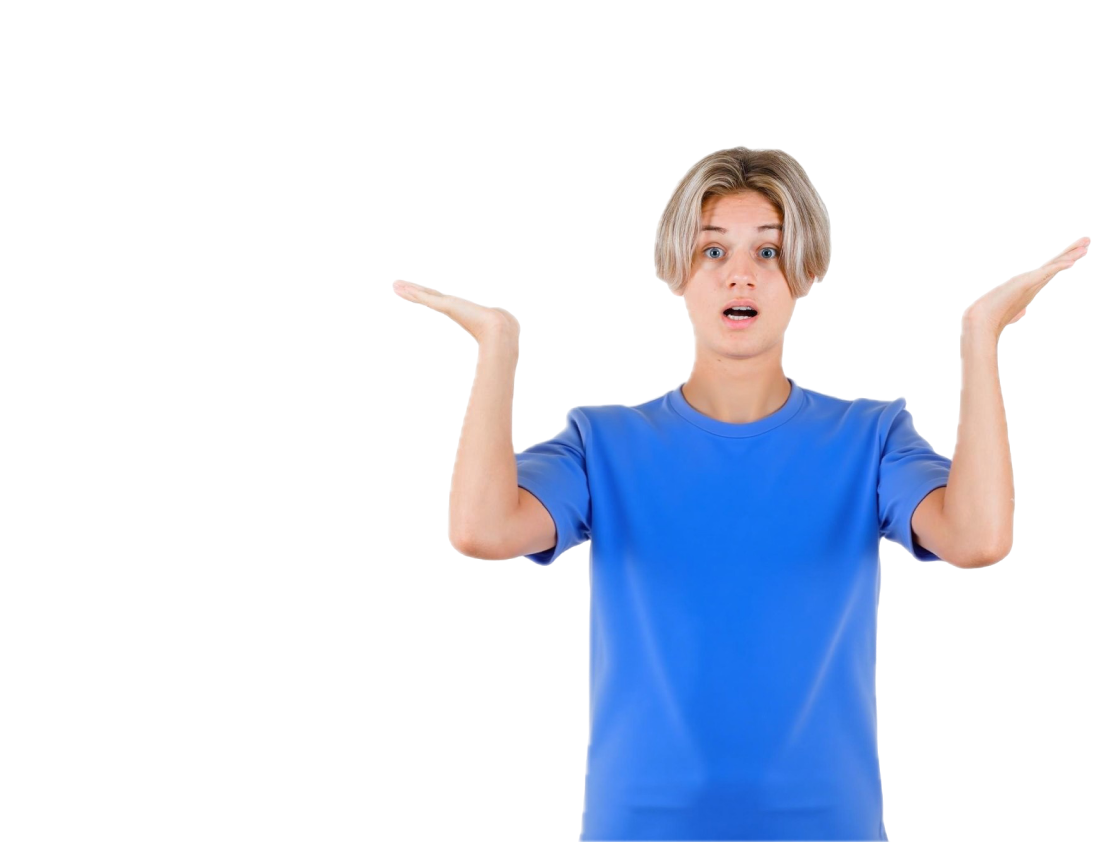
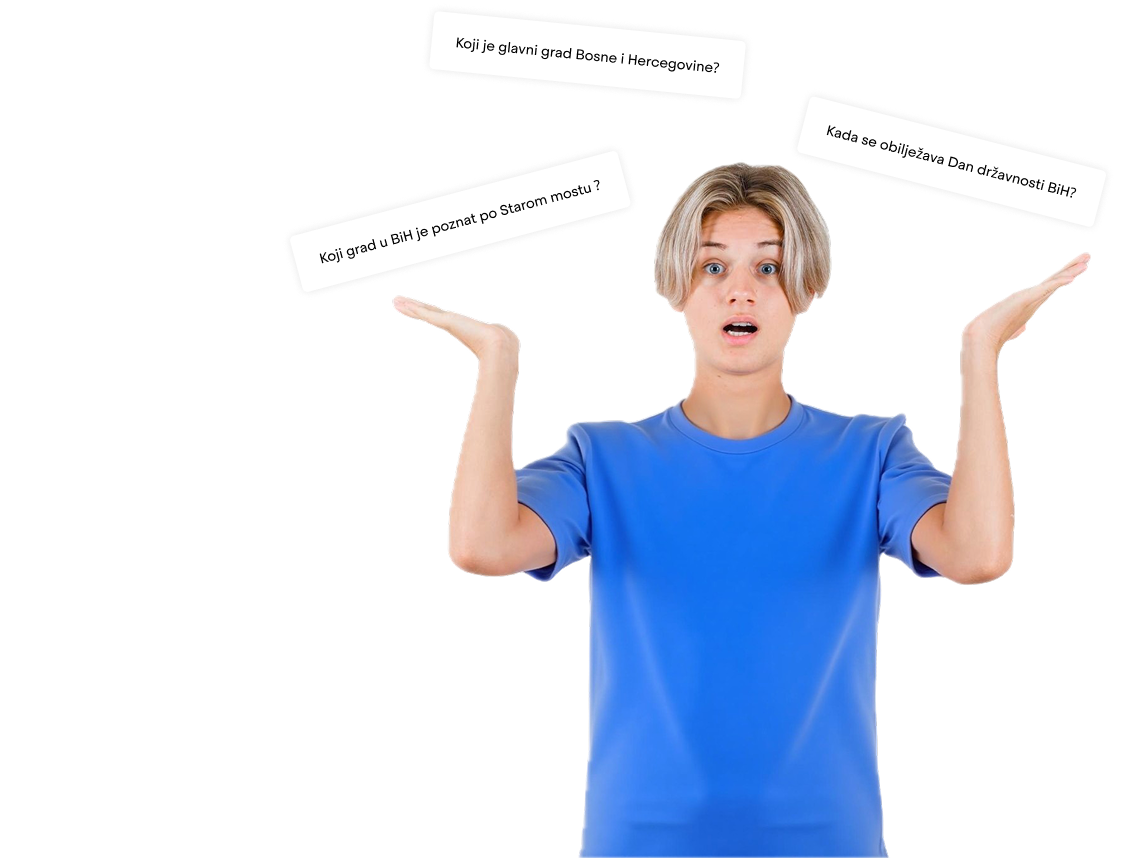
finishing second section

diff --git a/style.css b/style.css
@@ -24,12 +24,12 @@
 
 .content{
     width: 100vw;
-    height: 88vh;
+    height: 92vh;
     display: flex;
     background-image: url(./photos/background.png);
     background-repeat: no-repeat;
-    background-size: contain;  
-    background-position: end;
+    background-size: 65vw;  
+    background-position: right;
     justify-content: center;
     align-items: center;
 
@@ -37,7 +37,7 @@
 
 .main-content{
     width: 82vw;
-    height: 90%;
+    height: 88%;
     display: flex;
     align-items: flex-start;
     flex-direction: column;
@@ -52,6 +52,18 @@
     color: #2559D2;
     margin-bottom: 20px;
 }
+
+.first-paragraph{
+    color: #00000099;
+    font-weight: 400;
+    font-size: 20px;
+} 
+
+.second-paragraph{
+    color: #00000099;
+    font-weight: 400;
+    font-size: 16px;
+} 
 
 .logo{
     width: 132px;
@@ -71,6 +83,11 @@
     padding-left: 50px;
 }
 
+.navigation a{
+    color: #000000;
+    text-decoration: none;
+}
+
 .navigation ul{
     display: flex;
     justify-content: space-between;
@@ -82,7 +99,18 @@
     line-height: 20.8px;
     align-items: center;
     cursor: pointer;
+}
 
+.black-text{
+    color: #000000;
+}
+
+.mini-border{
+    width: 384px;
+    height: auto;
+    display: flex;
+    justify-content: center;
+    align-items: center;
 }
 
 .buttons{
@@ -123,4 +151,151 @@
     color: white;
     border-radius: 10px;
     border: none;
+    font-size: 24px;
+    cursor: pointer;
+    font-weight: 700;
 }
+
+.instructions-container{
+    width:100vw;
+    height: 100vh;
+    display: flex;
+    justify-content: center;
+    align-items: center;
+}
+
+.ins-content{
+    width: 82vw;
+    height: 100vh;
+    background-color: white;
+    display: flex;
+    flex-direction: column;
+}
+
+.top-content{
+    background-color: white;
+    width:82vw;
+    height: 275px;
+}
+
+.bottom-content{
+    width: 82vw;
+    height: auto;
+    background-color: white;
+    display: flex;
+    justify-content: space-between;
+    align-items: center;
+    margin-top: 80px;
+}
+
+#card{
+    width: 325px;
+    height: 400px;
+    border-radius: 10px;
+    background-color: red;
+}
+
+.first-card{
+    background-image: url(./photos/first-card.jpeg);
+    background-position: center;
+    background-repeat: no-repeat;
+    background-size: cover;
+}
+
+.second-card{
+    background-image: url(./photos/second-card.jpeg);
+    background-position: center;
+    background-repeat: no-repeat;
+    background-size: cover;
+}
+
+.third-card{
+    background-image: url(./photos/third-card.jpeg);
+        background-position: center;
+    background-repeat: no-repeat;
+    background-size: cover;
+}
+
+.upper-content{
+    width: 82vw;
+    height: 100px;
+    display: flex;
+    align-items: flex-end;
+    justify-content: space-between;
+}
+
+.icon-box{
+    width: 50vw;
+    height: 52px;
+    background-image: url(./photos/icon.svg);
+    background-repeat: no-repeat;
+}
+
+.icon-box h1{
+    margin-left: 80px;
+}
+
+.upper-content h1{
+    font-size: 40px;
+    color: #000000;
+    font-weight: 700;
+    line-height: 52px;
+}
+
+
+.lower-content p{
+    font-size: 16px;
+    color: #00000099;
+    line-height: 20.8px;
+    font-weight: 400;
+}
+
+.lower-content{
+    width: 82vw;
+    height: 100px;
+    display: flex;
+    align-items: flex-end;
+}
+
+.leaderboard-container{
+    width:100vw;
+    height: 100vh;
+    display: flex;
+    justify-content: center;
+    align-self: center;
+}
+
+.lead-content{
+    width: 82vw;
+    height: 100vh;
+    background-color: white;
+    display: flex;
+    justify-content: center;
+    align-items: center;
+    margin-top: 60px;
+
+}
+
+.leaderboard{
+    width: 82vw;
+    height: 620px;
+    background-color: #2559D2;
+    border-radius: 20px;
+}
+
+#instruction{
+    margin-top: 40px;
+}
+
+#second-start{
+    width: 280px;
+    height: 50px;
+    background-color: #2559D2;
+    border-radius: 10px;
+    border: none;
+    color: white;
+    font-size: 20px;
+    font-weight: 700;
+    line-height: 26px;
+}
+

diff --git a/index.html b/index.html
@@ -10,33 +10,74 @@
 </head>
 
 <body>
-    <section id="home">
-        <div class="container">
-            <div class="header">
-                <div class="logo"></div>
-                <div class="navigation">
-                    <ul>
+    <div class="container">
+        <div class="header" id="header">
+            <div class="logo"></div>
+            <div class="navigation">
+                <ul>
+                    <a href="#header">
                         <li>Početna</li>
+                    </a>
+                    <a href="#instruction">
                         <li>Uputstva</li>
+                    </a>
+                    <a href="#">
                         <li>Ljestvica</li>
-                    </ul>
-                </div>
-                <div class="buttons">
-                    <button id="login">Prijavi se</button>
-                    <button id="register">Registruj se</button>
-
-                </div>
+                    </a>
+                </ul>
             </div>
-            <div class="content">
-                <div class="main-content">
-                    <h1>Pokažite svoje <br> znanje o Bosni i <br>Hercegovini</h1>
-                    <p>Testirajte svoje znanje o historiji, kulturi i znamenitostima <br> naše predivne domovine! Koliko
-                        dobro poznajete Bosnu i <br> Hercegovinu?</p>
-                    <button id="start">Započni kviz</button>
+            <div class="buttons">
+                <button id="login">Prijavi se</button>
+                <button id="register">Registruj se</button>
+            </div>
+        </div>
+        <div class="content" id="content">
+            <div class="main-content">
+                <h1><span class="black-text">Pokažite svoje<br> znanje o </span> Bosni i <br>Hercegovini</h1>
+                <p class="first-paragraph">Testirajte svoje znanje o historiji, kulturi i znamenitostima <br> naše
+                    predivne domovine! Koliko
+                    dobro poznajete Bosnu i <br> Hercegovinu?</p>
+                <button id="start">Započni kviz</button>
+                <div class="mini-border">
+                    <p class="second-paragraph">+200 odigranih kvizova</p>
                 </div>
             </div>
         </div>
-    </section>
+
+        <div class="instructions-container" id="instruction">
+            <div class="ins-content">
+                <div class="top-content">
+                    <div class="upper-content">
+                        <div class="icon-box">
+                            <h1>Kako funkcioniše kviz?</h1>
+                        </div>
+                        <div class="button-box">
+                            <button id="second-start">
+                                Započni Kviz
+                            </button>
+                        </div>
+                    </div>
+                    <div class="lower-content">
+                        <p>U našem kvizu, jednostavno je izazvati sebe i druge! Odaberite kviz, odgovorite na pitanja u
+                            zadanom <br> vremenu i osvojite što više tačnih odgovora. Na kraju, možete provjeriti svoj
+                            rezultat i uporediti se sa <br> najboljima na leaderboardu. Brzo, zabavno i edukativno!</p>
+                    </div>
+                </div>
+                <div class="bottom-content">
+                    <div id="card" class="first-card"></div>
+                    <div id="card" class="second-card"></div>
+                    <div id="card" class="third-card"></div>
+                </div>
+            </div>
+
+        </div>
+
+        <div class="leaderboard-container">
+            <div class="lead-content">
+                <div class="leaderboard"></div>
+            </div>
+        </div>
+    </div>
 </body>
 
 </html>
